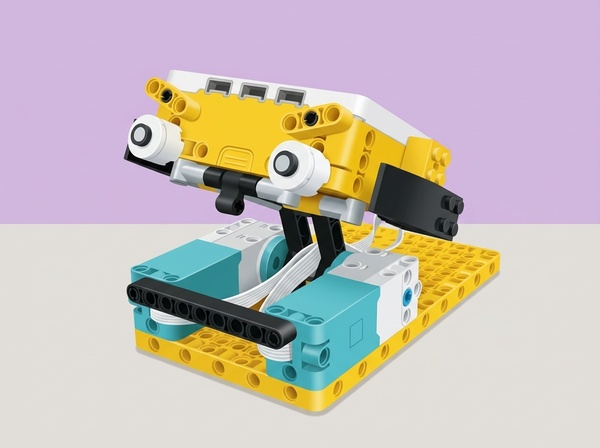
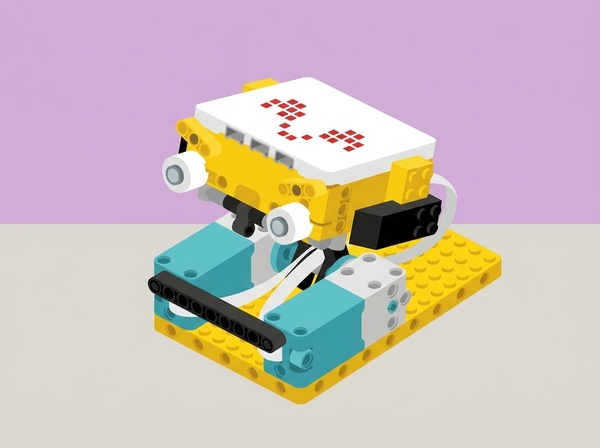
Regenerar coding-express, codingset i spike amb estil pla com CodeyRocky: sense outline, sense brillantors, sense degradats i cada forma d'un únic color

Changed region(s): [[0.21, 0.1562, 0.84, 0.9375]]

diff --git a/STYLE_GUIDE.md b/STYLE_GUIDE.md
@@ -5,6 +5,9 @@ Este documento establece el estándar visual obligatorio para todas las imágene
 ## 1. Reglas Fundamentales de las Ilustraciones
 - **Estilo Gráfico:** Ilustración digital estilizada (3D suave / vectorial limpio), diseño moderno de tecnología educativa para niños, formas limpias y redondeadas, estética de juguete tecnológico amigable (inspirado exactamente en el estilo de *CodeyRocky*).
 - **🚫 Estricto Estilo Sin Líneas (Lineless):** **Sin líneas de contorno (outlines), sin trazos negros, sin rebordes oscuros ni entintado.** Las formas, piezas y límites se definen exclusivamente a través del contraste de color, luz y sombreado suave de volumen, exactamente igual que en *CodeyRocky*.
+- **🚫 Sin brillos:** Acabado mate estricto, sin reflejos especulares, brillos plásticos ni brillos blancos.
+- **🚫 Sin degradados ni sombreados suaves:** Sin transiciones de color degradadas ni sombreados continuos o sombras suaves.
+- **🎨 Cada forma es de un único color:** Estilo plano (flat cel-shaded / vectorial). Cada plano, faceta o pieza geométrica se rellena con un solo color plano uniforme, exactamente igual que en *CodeyRocky*.
 - **Fondo Bicolor Dividido (Mesa y Pared):**
   - El fondo está dividido horizontalmente en dos mitades limpias por una línea de horizonte detrás de la parte media del robot.
   - **Mitad superior (Pared):** Color pastel plano suave que armoniza con los colores primarios del robot.
@@ -36,7 +39,7 @@ Este documento establece el estándar visual obligatorio para todas las imágene
 
 ## 3. Plantilla de Prompt Obligatoria para Generación
 ```text
-3D digital stylized illustration of [Robot Name] from the reference image, in the exact smooth lineless 3D toy style of Codey Rocky. Smooth curved plastic surfaces, soft volume shading, friendly toy tech design, completely lineless without any black outlines, stroke lines, or ink contours. Centered composition, 3/4 front isometric perspective view. The background is divided horizontally into two flat two-tone halves like a clean studio room: upper half is a solid [Color Superior] wall, and lower half is a solid [Color Inferior] flat table surface, with a clean horizontal horizon line dividing them behind the robot. Strictly NO shadow beneath the robot, no drop shadow, no ground shadow, no contact shadow on the table. Completely textless, strictly no text, no words, no numbers, no letters, no labels, no watermarks.
+Minimalist flat vector 3D-isometric illustration of [Robot Name] from the reference image, in the exact flat minimalist art style of Codey Rocky. CRITICAL ART STYLE RULES: Strictly NO outlines, no black contours, no line strokes. Strictly NO glossy shine, NO specular reflections, NO highlights, matte finish. Strictly NO gradients, NO soft shading, NO ambient occlusion, NO shadow gradients. Every shape and surface is a single flat solid color (flat cel-shaded vector look). Each facet and part is filled with one uniform flat solid color, exactly like Codey Rocky. Centered 3/4 isometric perspective. Background is two flat solid halves: top half flat solid [Color Superior], bottom half flat solid [Color Inferior], divided by a straight horizontal line behind the robot. Strictly NO shadow under the robot on the table, no drop shadow. Strictly textless, no words, no numbers, no letters, no logos.
 ```
 
 ---

diff --git a/AGENTS.md b/AGENTS.md
@@ -9,6 +9,9 @@
 ## 🎨 Guia d'Estil de les Imatges de Portada dels Robots
 - **Estil visual:** Il·lustració digital 3D/vectorial estilitzada, joguina tecnològica educativa amable, superfícies suaus i arrodonides, idèntic a l'estil de referència de *CodeyRocky*.
 - **🚫 Sense contorns ni línies (Lineless estricte):** **Completament sense línies de contorn (sense outlines, sense traçats negres ni línies de tinta).** Les formes, peces i volums s'han de definir exclusivament mitjançant el contrast de colors, llum i volum, exactament com a *CodeyRocky*.
+- **🚫 Sense brillantors:** Acabat mat, sense reflexos especulars ni lluentors de plàstic brillant.
+- **🚫 Sense degradats ni ombrejats:** Sense degradats de color, sense ombrejat suau ni oclusió ambiental.
+- **🎨 Cada forma és d'un únic color:** Estil pla (flat cel-shading / vectorial). Cada faceta, peça o forma geomètrica s'omple amb un únic color sòlid uniforme, exactament igual que a *CodeyRocky*.
 - **Composició de fons bicolor (2 meitats):**
   - Fons dividit horitzontalment en dues meitats netes (efecte paret i taula).
   - Meitat superior: color pastís pla que harmonitzi amb els tons del robot.
